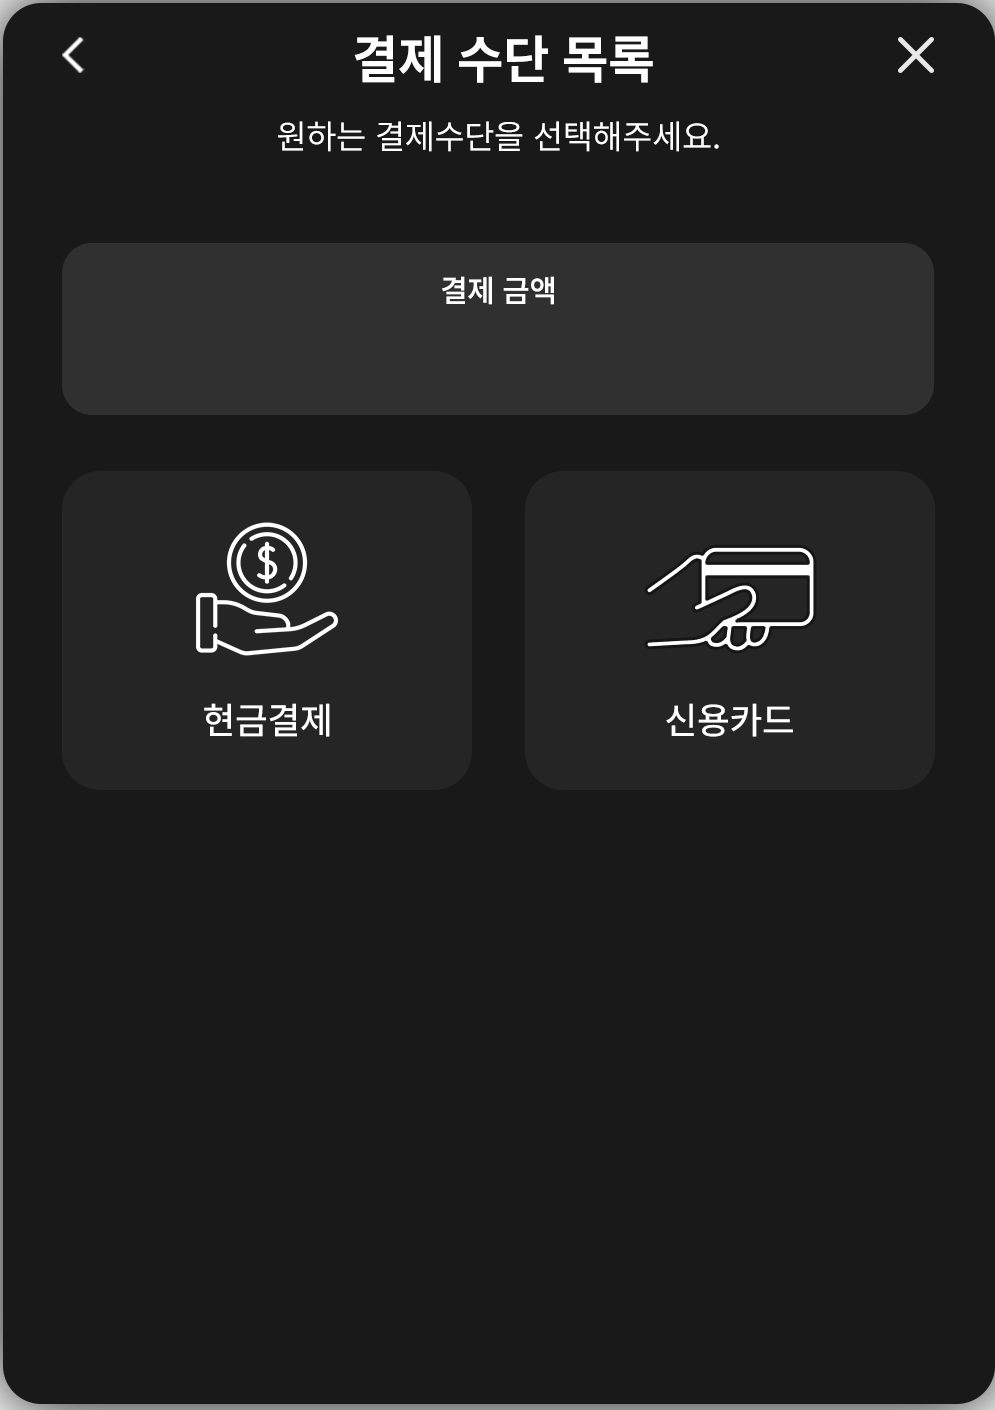
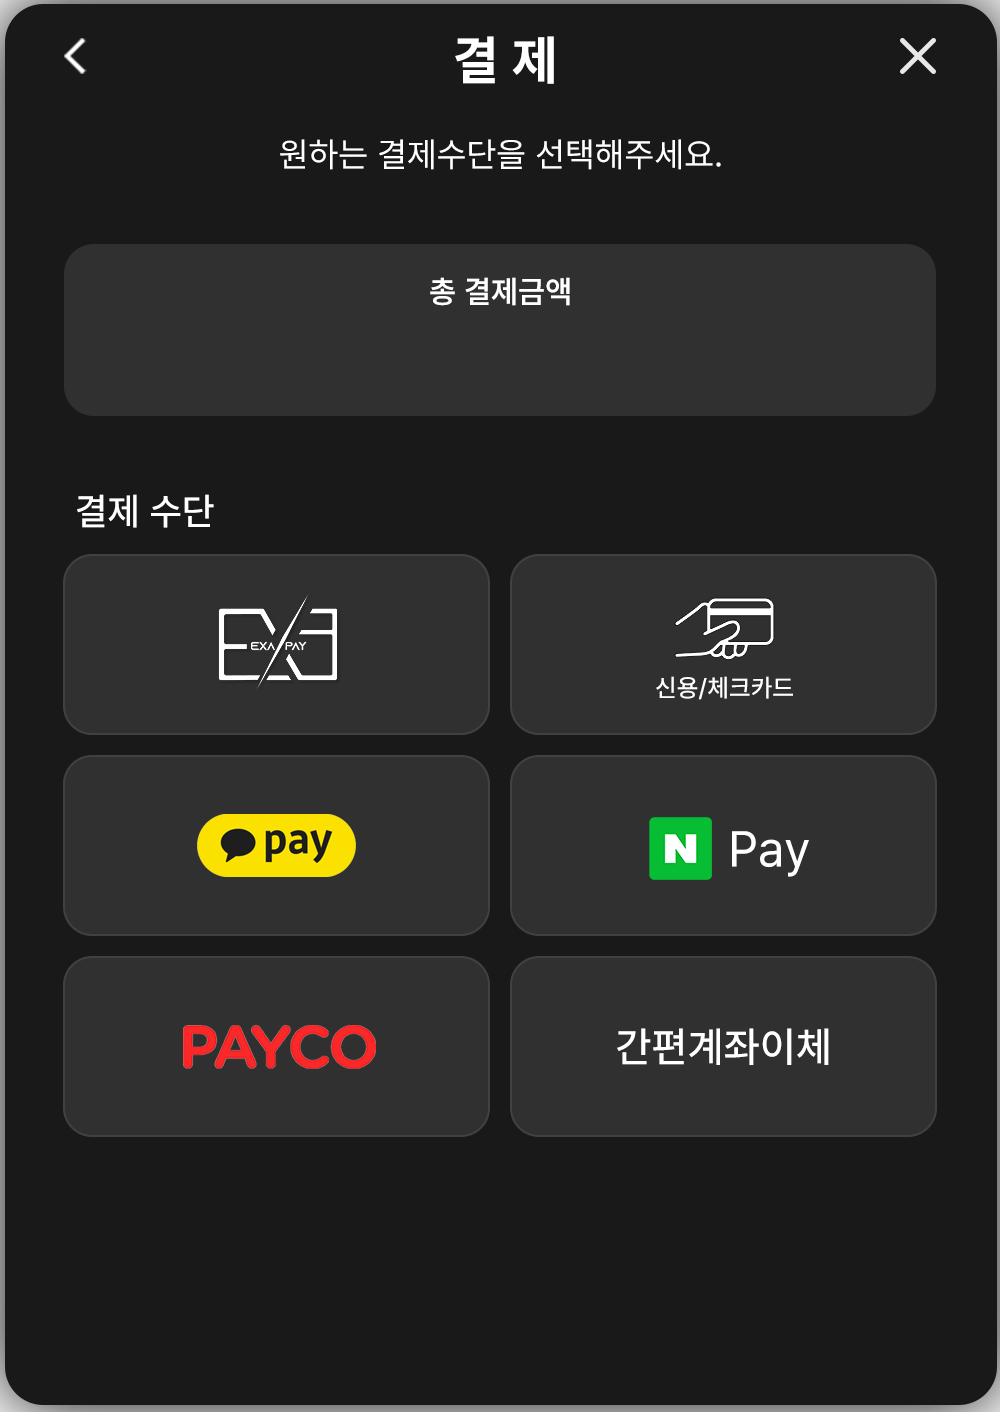
서빙 모듈 마무리 작업 및 최종 추가 사항 요청( 결제 완료 페이지 )

diff --git a/lib/Widgets/OrderModuleButtonsFinal.dart b/lib/Widgets/OrderModuleButtonsFinal.dart
@@ -97,7 +97,7 @@ class _OrderModuleButtonsFinalState extends State<OrderModuleButtonsFinal> {
               child: Column(
                 mainAxisAlignment: MainAxisAlignment.center,
                 children: [
-                  Text('현금 결제 준비 중', style: TextStyle(
+                  Text('서비스를 준비 중 입니다.', style: TextStyle(
                       fontFamily: 'kor',
                       fontSize: 50,
                       color: Color(0xffF0F0F0)
@@ -184,12 +184,12 @@ class _OrderModuleButtonsFinalState extends State<OrderModuleButtonsFinal> {
       ;
     } else if (widget.screens == 2) {
       // 결제 선택 및 금액 확인
-      buttonPositionWidth = [58.8, 520.3];
-      buttonPositionHeight = [466, 466];
+      buttonPositionWidth = [59, 506, 59, 506, 59, 506];
+      buttonPositionHeight = [550, 550, 750, 750, 950, 950];
 
-      buttonSize = [409.5, 318.8];
+      buttonSize = [425, 179];
 
-      buttonRadius = 50;
+      buttonRadius = 30;
     }
 
     buttonNumbers = buttonPositionHeight.length;
